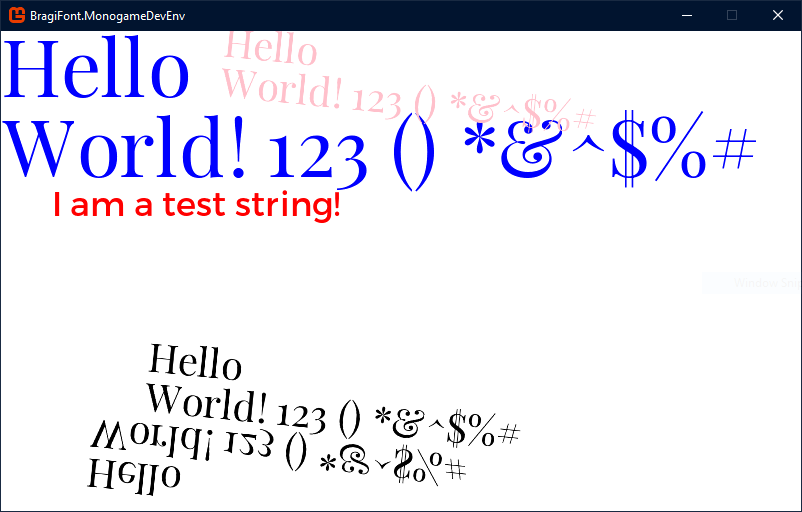
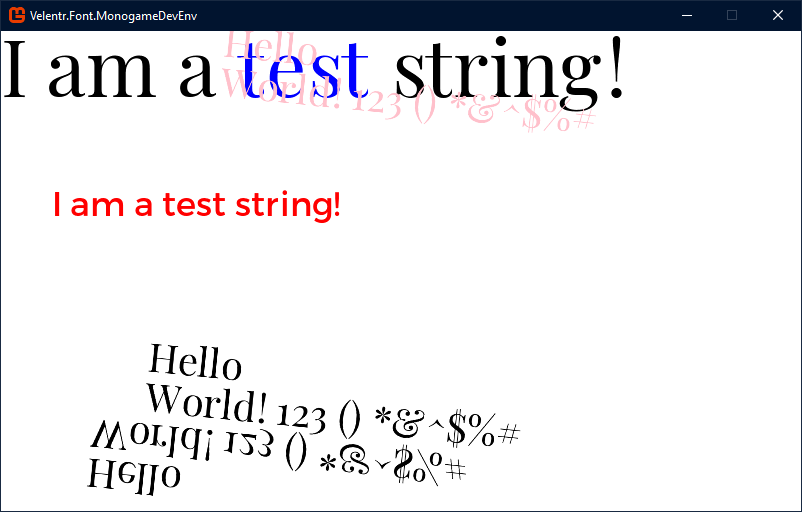
Removed unneded method parameters and updated examples

Changed region(s): [[0.0, 0.0, 0.7793, 0.2188], [0.3429, 0.2188, 0.9352, 0.375], [0.0, 0.2188, 0.3117, 0.3438]]

diff --git a/Velentr.Font.Core/FontManager.cs b/Velentr.Font.Core/FontManager.cs
@@ -80,14 +80,13 @@ namespace Velentr.Font
         /// </summary>
         /// <param name="path">The path.</param>
         /// <param name="size">The size.</param>
-        /// <param name="graphicsDevice">The graphics device.</param>
         /// <param name="preGenerateCharacters">if set to <c>true</c> [pre generate characters].</param>
         /// <param name="charactersToPregenerate">The characters to pregenerate.</param>
         /// <param name="storeTypefaceFileData">The store typeface file data.</param>
         /// <returns></returns>
-        public Font GetFont(string path, int size, GraphicsDevice graphicsDevice = null, bool preGenerateCharacters = false, char[] charactersToPregenerate = null, bool? storeTypefaceFileData = null)
+        public Font GetFont(string path, int size, bool preGenerateCharacters = false, char[] charactersToPregenerate = null, bool? storeTypefaceFileData = null)
         {
-            var typeface = GetTypefaceInternal(path, File.ReadAllBytes(path), graphicsDevice, preGenerateCharacters, charactersToPregenerate, storeTypefaceFileData);
+            var typeface = GetTypefaceInternal(path, File.ReadAllBytes(path), preGenerateCharacters, charactersToPregenerate, storeTypefaceFileData);
             return typeface.GetFont(size, preGenerateCharacters, charactersToPregenerate);
         }
 
@@ -97,14 +96,13 @@ namespace Velentr.Font
         /// <param name="name">The name.</param>
         /// <param name="fileStream">The file stream.</param>
         /// <param name="size">The size.</param>
-        /// <param name="graphicsDevice">The graphics device.</param>
         /// <param name="preGenerateCharacters">if set to <c>true</c> [pre generate characters].</param>
         /// <param name="charactersToPregenerate">The characters to pregenerate.</param>
         /// <returns></returns>
-        public Font GetFont(string name, Stream fileStream, int size, GraphicsDevice graphicsDevice = null, bool preGenerateCharacters = false, char[] charactersToPregenerate = null)
+        public Font GetFont(string name, Stream fileStream, int size, bool preGenerateCharacters = false, char[] charactersToPregenerate = null)
         {
             var buffer = Helpers.ReadStream(fileStream);
-            var typeface = GetTypefaceInternal(name, buffer, graphicsDevice, preGenerateCharacters, charactersToPregenerate, true);
+            var typeface = GetTypefaceInternal(name, buffer, preGenerateCharacters, charactersToPregenerate, true);
             return typeface.GetFont(size, preGenerateCharacters, charactersToPregenerate);
         }
 
@@ -114,13 +112,12 @@ namespace Velentr.Font
         /// <param name="name">The name.</param>
         /// <param name="fileData">The file data.</param>
         /// <param name="size">The size.</param>
-        /// <param name="graphicsDevice">The graphics device.</param>
         /// <param name="preGenerateCharacters">if set to <c>true</c> [pre generate characters].</param>
         /// <param name="charactersToPregenerate">The characters to pregenerate.</param>
         /// <returns></returns>
-        public Font GetFont(string name, byte[] fileData, int size, GraphicsDevice graphicsDevice = null, bool preGenerateCharacters = false, char[] charactersToPregenerate = null)
+        public Font GetFont(string name, byte[] fileData, int size, bool preGenerateCharacters = false, char[] charactersToPregenerate = null)
         {
-            var typeface = GetTypefaceInternal(name, fileData, graphicsDevice, preGenerateCharacters, charactersToPregenerate, true);
+            var typeface = GetTypefaceInternal(name, fileData, preGenerateCharacters, charactersToPregenerate, true);
             return typeface.GetFont(size, preGenerateCharacters, charactersToPregenerate);
         }
 
@@ -129,14 +126,13 @@ namespace Velentr.Font
         /// </summary>
         /// <param name="path">The path to load the font from.</param>
         /// <param name="size">The size of the font.</param>
-        /// <param name="graphicsDevice">The graphics device. Optional, but required if VelentrFont.Core.Initialize() hasn't been called yet.</param>
         /// <param name="preGenerateCharacters">if set to <c>true</c> [pre generate characters].</param>
         /// <param name="charactersToPregenerate">The characters to pregenerate.</param>
         /// <returns>The Font that matches the specified parameters.</returns>
         /// <exception cref="Exception">GraphicsDevice is not initialized! Please either initialize VelentrFont.Core or provide the GraphicsDevice when getting a new font.</exception>
-        public Typeface GetTypeface(string path, GraphicsDevice graphicsDevice = null, bool preGenerateCharacters = false, char[] charactersToPregenerate = null, bool? storeTypefaceFileData = null)
+        public Typeface GetTypeface(string path, bool preGenerateCharacters = false, char[] charactersToPregenerate = null, bool? storeTypefaceFileData = null)
         {
-            return GetTypefaceInternal(path, File.ReadAllBytes(path), graphicsDevice, preGenerateCharacters, charactersToPregenerate, storeTypefaceFileData);
+            return GetTypefaceInternal(path, File.ReadAllBytes(path), preGenerateCharacters, charactersToPregenerate, storeTypefaceFileData);
         }
 
         /// <summary>
@@ -144,14 +140,13 @@ namespace Velentr.Font
         /// </summary>
         /// <param name="name">The name.</param>
         /// <param name="fileStream">The file stream.</param>
-        /// <param name="graphicsDevice">The graphics device.</param>
         /// <param name="preGenerateCharacters">if set to <c>true</c> [pre generate characters].</param>
         /// <param name="charactersToPregenerate">The characters to pregenerate.</param>
         /// <returns>The Font that matches the specified parameters.</returns>
-        public Typeface GetTypeface(string name, Stream fileStream, GraphicsDevice graphicsDevice = null, bool preGenerateCharacters = false, char[] charactersToPregenerate = null)
+        public Typeface GetTypeface(string name, Stream fileStream, bool preGenerateCharacters = false, char[] charactersToPregenerate = null)
         {
             var buffer = Helpers.ReadStream(fileStream);
-            return GetTypefaceInternal(name, buffer, graphicsDevice, preGenerateCharacters, charactersToPregenerate, true);
+            return GetTypefaceInternal(name, buffer, preGenerateCharacters, charactersToPregenerate, true);
         }
 
         /// <summary>
@@ -159,13 +154,12 @@ namespace Velentr.Font
         /// </summary>
         /// <param name="name">The name.</param>
         /// <param name="fileData">The file data.</param>
-        /// <param name="graphicsDevice">The graphics device.</param>
         /// <param name="preGenerateCharacters">if set to <c>true</c> [pre generate characters].</param>
         /// <param name="charactersToPregenerate">The characters to pregenerate.</param>
         /// <returns>The Font that matches the specified parameters.</returns>
-        public Typeface GetTypeface(string name, byte[] fileData, GraphicsDevice graphicsDevice = null, bool preGenerateCharacters = false, char[] charactersToPregenerate = null)
+        public Typeface GetTypeface(string name, byte[] fileData, bool preGenerateCharacters = false, char[] charactersToPregenerate = null)
         {
-            return GetTypefaceInternal(name, fileData, graphicsDevice, preGenerateCharacters, charactersToPregenerate, true);
+            return GetTypefaceInternal(name, fileData, preGenerateCharacters, charactersToPregenerate, true);
         }
 
         /// <summary>
@@ -173,24 +167,13 @@ namespace Velentr.Font
         /// </summary>
         /// <param name="name">The name.</param>
         /// <param name="fileData">The file data.</param>
-        /// <param name="graphicsDevice">The graphics device.</param>
         /// <param name="preGenerateCharacters">if set to <c>true</c> [pre generate characters].</param>
         /// <param name="charactersToPregenerate">The characters to pregenerate.</param>
         /// <param name="storeTypefaceFileData">The store typeface file data.</param>
         /// <returns></returns>
         /// <exception cref="System.Exception">GraphicsDevice is not initialized! Please either initialize VelentrFont.Core or provide the GraphicsDevice when getting a new font.</exception>
-        private Typeface GetTypefaceInternal(string name, byte[] fileData, GraphicsDevice graphicsDevice, bool preGenerateCharacters, char[] charactersToPregenerate, bool? storeTypefaceFileData)
+        private Typeface GetTypefaceInternal(string name, byte[] fileData, bool preGenerateCharacters, char[] charactersToPregenerate, bool? storeTypefaceFileData)
         {
-            if (graphicsDevice == null && GraphicsDevice == null)
-            {
-                throw new Exception("GraphicsDevice is not initialized! Please either initialize VelentrFont.Core or provide the GraphicsDevice when getting a new font.");
-            }
-
-            if (graphicsDevice != null)
-            {
-                GraphicsDevice = graphicsDevice;
-            }
-
             if (storeTypefaceFileData == null)
             {
                 storeTypefaceFileData = Constants.Settings.StoreFontFileData;

diff --git a/Velentr.Font.FNADevEnv/Game1.cs b/Velentr.Font.FNADevEnv/Game1.cs
@@ -10,11 +10,13 @@ namespace Velentr.Font.FNADevEnv
         private SpriteBatch _spriteBatch;
         private string testString = "Hello\nWorld! 123 () *&^$%#";
         private string testString2 = "I am a test string!";
+        private string testString3 = "I am a [c: blue]test[/] string!";
         private string fontFile1 = "Content\\PlayfairDisplayRegular-ywLOY.ttf";
         private string fontFile2 = "Content\\Trueno-wml2.otf";
         private Text text1;
         private Text text2;
 
+        private FontManager manager;
 
         Font font1;
         Font font2;
@@ -34,12 +36,12 @@ namespace Velentr.Font.FNADevEnv
         protected override void LoadContent()
         {
             _spriteBatch = new SpriteBatch(GraphicsDevice);
-            VelentrFont.Core.Initialize(GraphicsDevice);
+            manager = new FontManager(GraphicsDevice);
 
-            font1 = VelentrFont.Core.GetFont(fontFile1, 80);
+            font1 = manager.GetFont(fontFile1, 80);
             text1 = font1.MakeText(testString);
 
-            font2 = VelentrFont.Core.GetFont(fontFile2, 34);
+            font2 = manager.GetFont(fontFile2, 34);
             text2 = font2.MakeText(testString2);
         }
 
@@ -57,7 +59,8 @@ namespace Velentr.Font.FNADevEnv
 
             _spriteBatch.Begin();
 
-            _spriteBatch.DrawString(font1, testString, new Vector2(0, -15), Color.Blue);
+            //_spriteBatch.DrawString(font1, testString, new Vector2(0, -15), Color.Blue);
+            _spriteBatch.DrawStringWithMarkdown(font1, testString3, new Vector2(0, -15), Color.Black);
             _spriteBatch.DrawString(font1, testString, new Vector2(150, -15), Color.Pink, 0.1f, Vector2.Zero, new Vector2(.5f, .5f), SpriteEffects.None, 1f);
             _spriteBatch.DrawString(text2, new Vector2(50, 150), Color.Red);
             _spriteBatch.DrawString(text1, new Vector2(150, 300), Color.Black, 0.1f, Vector2.Zero, new Vector2(.5f, .5f), SpriteEffects.None, 1f);

diff --git a/README.md b/README.md
@@ -10,16 +10,17 @@ There are nuget packages available for Monogame and FNA.
 Approach 1: Draw Text Directly
 ```
 var fontSize = 48;
-// VelentrFont.Initialize(GraphicsDevice); // Optional, if not called you'll need to add the GraphicsDevice to the first Bragi.Core.GetFont call that is made to set the GraphicsDevice.
-var font = VelentrFont.GetFont("pathToFontFile", fontSize, GraphicsDevice);
+
+var manager = new FontManager(GraphicsDevice);
+var font = manager.GetFont("pathToFontFile", fontSize);
 _spriteBatch.DrawString(font, "Hello World!", new Vector2(50, 50), Color.White);
 ```
 
 Approach 2: Cache Text (is a bit quicker since we don't need to rebuild the text glyph list on subsequent calls)
 ```
 var fontSize = 48;
-// VelentrFont.Initialize(GraphicsDevice); // Optional, if not called you'll need to add the GraphicsDevice to the first Bragi.Core.GetFont call that is made to set the GraphicsDevice.
-var font = VelentrFont.GetFont("pathToFontFile", fontSize, GraphicsDevice);
+var manager = new FontManager(GraphicsDevice);
+var font = manager.GetFont("pathToFontFile", fontSize);
 var text = font.MakeText("Hello World!");
 _spriteBatch.DrawString(text, new Vector2(50, 50), Color.White);
 
@@ -44,10 +45,13 @@ namespace Velentr.Font.MonogameDevEnv
         private SpriteBatch _spriteBatch;
         private string testString = "Hello\nWorld! 123 () *&^$%#";
         private string testString2 = "I am a test string!";
+        private string testString3 = "I am a [c: blue]test[/] string!";
         private string fontFile1 = "Content\\PlayfairDisplayRegular-ywLOY.ttf";
         private string fontFile2 = "Content\\Trueno-wml2.otf";
         private Text text1;
         private Text text2;
+
+        private FontManager manager;
 
 
         Font font1;
@@ -68,12 +72,12 @@ namespace Velentr.Font.MonogameDevEnv
         protected override void LoadContent()
         {
             _spriteBatch = new SpriteBatch(GraphicsDevice);
-            VelentrFont.Core.Initialize(GraphicsDevice);
+            manager = new FontManager(GraphicsDevice);
 
-            font1 = VelentrFont.Core.GetFont(fontFile1, 80);
+            font1 = manager.GetFont(fontFile1, 80);
             text1 = font1.MakeText(testString);
 
-            font2 = VelentrFont.Core.GetFont(fontFile2, 34);
+            font2 = manager.GetFont(fontFile2, 34);
             text2 = font2.MakeText(testString2);
         }
 
@@ -91,7 +95,8 @@ namespace Velentr.Font.MonogameDevEnv
 
             _spriteBatch.Begin();
 
-            _spriteBatch.DrawString(font1, testString, new Vector2(0, -15), Color.Blue);
+            //_spriteBatch.DrawString(font1, testString, new Vector2(0, -15), Color.Blue);
+            _spriteBatch.DrawStringWithMarkdown(font1, testString3, new Vector2(0, -15), Color.Black);
             _spriteBatch.DrawString(font1, testString, new Vector2(150, -15), Color.Pink, 0.1f, Vector2.Zero, new Vector2(.5f, .5f), SpriteEffects.None, 1f);
             _spriteBatch.DrawString(text2, new Vector2(50, 150), Color.Red);
             _spriteBatch.DrawString(text1, new Vector2(150, 300), Color.Black, 0.1f, Vector2.Zero, new Vector2(.5f, .5f), SpriteEffects.None, 1f);
@@ -103,6 +108,7 @@ namespace Velentr.Font.MonogameDevEnv
         }
     }
 }
+
 
 ```
 
